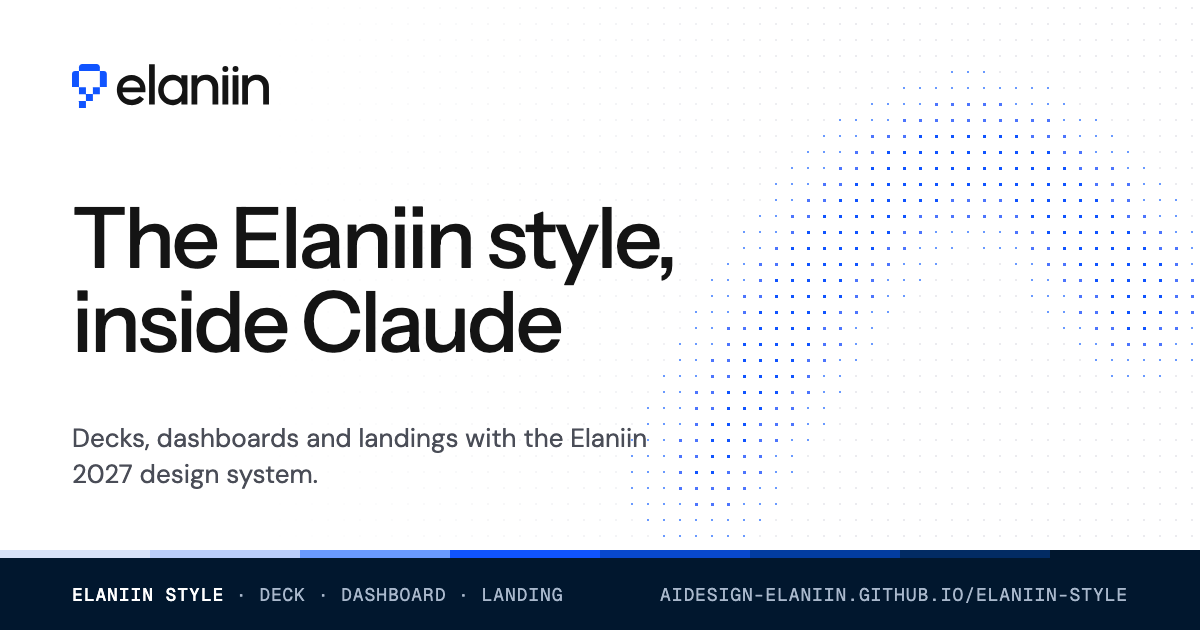
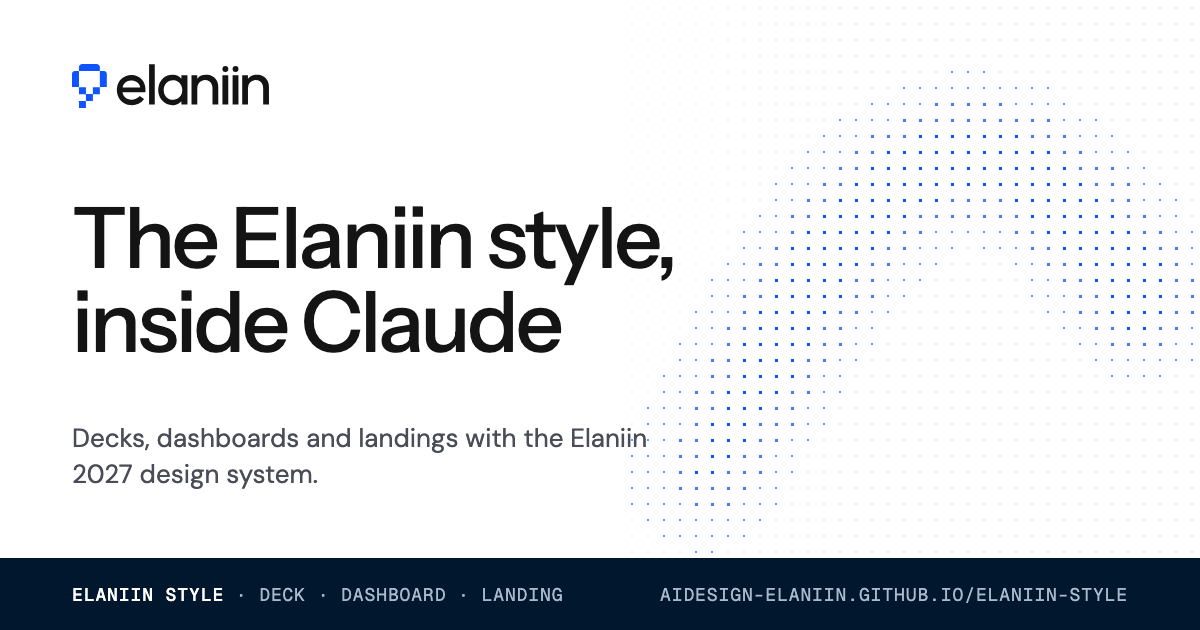
chore: elimina la barra escalonada de azul (--blue-steps) de todo el design system: tokens, deck, imagen OG y referencias; regla de no gradientes ni barras de color

Changed region(s): [[0.0, 0.8746, 1.0, 0.9048]]

diff --git a/docs/templates/deck.html b/docs/templates/deck.html
@@ -243,8 +243,6 @@
   --reveal-distance: 16px;
   --reveal-stagger: 60ms;
 
-  /* the only gradient: stepped blue motif */
-  --blue-steps: linear-gradient(90deg, #d7e2f8 0 12.5%, #b9cefb 12.5% 25%, #6a9aff 25% 37.5%, #1054ff 37.5% 50%, #0848cc 50% 62.5%, #023ca0 62.5% 75%, #022b63 75% 87.5%, #01172e 87.5% 100%);
 }
 
 @media (max-width: 1023px) {
@@ -859,7 +857,6 @@
           <h1 class="rise max-w-[15ch] break-words font-display font-medium text-display-xl" style="--i:0">Acme: the operating system for modern logistics</h1>
           <p class="rise mt-6 max-w-[56ch] text-lead text-text-secondary" style="--i:1">Investor presentation · Confidential</p>
         </div>
-        <div class="rise h-3 w-64" style="--i:2; background: var(--blue-steps)"></div>
       </div>
     </section>
 

diff --git a/skills/elaniin-style/templates/deck.html b/skills/elaniin-style/templates/deck.html
@@ -243,8 +243,6 @@
   --reveal-distance: 16px;
   --reveal-stagger: 60ms;
 
-  /* the only gradient: stepped blue motif */
-  --blue-steps: linear-gradient(90deg, #d7e2f8 0 12.5%, #b9cefb 12.5% 25%, #6a9aff 25% 37.5%, #1054ff 37.5% 50%, #0848cc 50% 62.5%, #023ca0 62.5% 75%, #022b63 75% 87.5%, #01172e 87.5% 100%);
 }
 
 @media (max-width: 1023px) {
@@ -859,7 +857,6 @@
           <h1 class="rise max-w-[15ch] break-words font-display font-medium text-display-xl" style="--i:0">Acme: the operating system for modern logistics</h1>
           <p class="rise mt-6 max-w-[56ch] text-lead text-text-secondary" style="--i:1">Investor presentation · Confidential</p>
         </div>
-        <div class="rise h-3 w-64" style="--i:2; background: var(--blue-steps)"></div>
       </div>
     </section>
 

diff --git a/docs/index.html b/docs/index.html
@@ -260,8 +260,6 @@
   --reveal-distance: 16px;
   --reveal-stagger: 60ms;
 
-  /* the only gradient: stepped blue motif */
-  --blue-steps: linear-gradient(90deg, #d7e2f8 0 12.5%, #b9cefb 12.5% 25%, #6a9aff 25% 37.5%, #1054ff 37.5% 50%, #0848cc 50% 62.5%, #023ca0 62.5% 75%, #022b63 75% 87.5%, #01172e 87.5% 100%);
 }
 
 @media (max-width: 1023px) {

diff --git a/docs/templates/dashboard.html b/docs/templates/dashboard.html
@@ -244,8 +244,6 @@
   --reveal-distance: 16px;
   --reveal-stagger: 60ms;
 
-  /* the only gradient: stepped blue motif */
-  --blue-steps: linear-gradient(90deg, #d7e2f8 0 12.5%, #b9cefb 12.5% 25%, #6a9aff 25% 37.5%, #1054ff 37.5% 50%, #0848cc 50% 62.5%, #023ca0 62.5% 75%, #022b63 75% 87.5%, #01172e 87.5% 100%);
 }
 
 @media (max-width: 1023px) {

diff --git a/docs/templates/landing.html b/docs/templates/landing.html
@@ -244,8 +244,6 @@
   --reveal-distance: 16px;
   --reveal-stagger: 60ms;
 
-  /* the only gradient: stepped blue motif */
-  --blue-steps: linear-gradient(90deg, #d7e2f8 0 12.5%, #b9cefb 12.5% 25%, #6a9aff 25% 37.5%, #1054ff 37.5% 50%, #0848cc 50% 62.5%, #023ca0 62.5% 75%, #022b63 75% 87.5%, #01172e 87.5% 100%);
 }
 
 @media (max-width: 1023px) {

diff --git a/skills/elaniin-style/templates/dashboard.html b/skills/elaniin-style/templates/dashboard.html
@@ -244,8 +244,6 @@
   --reveal-distance: 16px;
   --reveal-stagger: 60ms;
 
-  /* the only gradient: stepped blue motif */
-  --blue-steps: linear-gradient(90deg, #d7e2f8 0 12.5%, #b9cefb 12.5% 25%, #6a9aff 25% 37.5%, #1054ff 37.5% 50%, #0848cc 50% 62.5%, #023ca0 62.5% 75%, #022b63 75% 87.5%, #01172e 87.5% 100%);
 }
 
 @media (max-width: 1023px) {

diff --git a/skills/elaniin-style/templates/landing.html b/skills/elaniin-style/templates/landing.html
@@ -244,8 +244,6 @@
   --reveal-distance: 16px;
   --reveal-stagger: 60ms;
 
-  /* the only gradient: stepped blue motif */
-  --blue-steps: linear-gradient(90deg, #d7e2f8 0 12.5%, #b9cefb 12.5% 25%, #6a9aff 25% 37.5%, #1054ff 37.5% 50%, #0848cc 50% 62.5%, #023ca0 62.5% 75%, #022b63 75% 87.5%, #01172e 87.5% 100%);
 }
 
 @media (max-width: 1023px) {

diff --git a/skills/elaniin-style/templates/tokens.css b/skills/elaniin-style/templates/tokens.css
@@ -231,8 +231,6 @@
   --reveal-distance: 16px;
   --reveal-stagger: 60ms;
 
-  /* the only gradient: stepped blue motif */
-  --blue-steps: linear-gradient(90deg, #d7e2f8 0 12.5%, #b9cefb 12.5% 25%, #6a9aff 25% 37.5%, #1054ff 37.5% 50%, #0848cc 50% 62.5%, #023ca0 62.5% 75%, #022b63 75% 87.5%, #01172e 87.5% 100%);
 }
 
 @media (max-width: 1023px) {

diff --git a/scripts/make-og.py b/scripts/make-og.py
@@ -55,7 +55,6 @@ body{{width:{W}px;height:{H}px;background:#fff;position:relative;overflow:hidden
 h1{{position:absolute;left:72px;top:196px;width:700px;font-family:"Instrument Sans",sans-serif;font-weight:500;font-size:84px;line-height:1;letter-spacing:-.035em}}
 p.lead{{position:absolute;left:72px;top:420px;width:640px;font-size:26px;line-height:1.4;color:#4a4d57}}
 .band{{position:absolute;left:0;right:0;bottom:0;height:72px;background:#01172e;display:flex;align-items:center;justify-content:space-between;padding:0 72px}}
-.steps{{position:absolute;left:0;right:0;bottom:72px;height:8px;background:linear-gradient(90deg,#d7e2f8 0 12.5%,#b9cefb 12.5% 25%,#6a9aff 25% 37.5%,#1054ff 37.5% 50%,#0848cc 50% 62.5%,#023ca0 62.5% 75%,#022b63 75% 87.5%,#01172e 87.5% 100%)}}
 .band span{{white-space:nowrap;font-family:"Geist Mono",monospace;font-size:18px;letter-spacing:.05em;text-transform:uppercase;color:#a9b8cc}}
 .band b{{font-weight:500;color:#fff}}
 </style></head><body>
@@ -64,7 +63,6 @@ p.lead{{position:absolute;left:72px;top:420px;width:640px;font-size:26px;line-he
 <img class="logo" src="{logo}" alt="">
 <h1>The Elaniin style, inside Claude</h1>
 <p class="lead">Decks, dashboards and landings with the Elaniin 2027 design system.</p>
-<div class="steps"></div>
 <div class="band"><span><b>Elaniin Style</b> · Deck · Dashboard · Landing</span><span>aidesign-elaniin.github.io/elaniin-style</span></div>
 </body></html>'''
 (OUT / "og.html").write_text(html)

diff --git a/skills/elaniin-style/SKILL.md b/skills/elaniin-style/SKILL.md
@@ -168,6 +168,10 @@ Non-negotiables (full detail in `references/ux-a11y.md`):
    settings that persist), Export is real and disabled where there is no data, and there is
    no SaaS user block: the sidebar footer is legal (Privacy · Terms · ©). A dashboard is not a
    SaaS. Details and minimum views: `references/dashboards.md`.
+16. **No decorative gradients or color bars (non-negotiable).** No stepped/segmented blue
+   bars, ramp strips, gradient backgrounds, blobs or glass. Structure comes from hairlines,
+   flat surfaces and the `module-field` texture. The only soft glows allowed are the pointer
+   `spotlight` and `card-glow`. The blue ramp tokens exist for states, never as a decorative strip.
 
 ---
 
@@ -240,6 +244,7 @@ Before delivering, verify:
 - [ ] **No raw CSS:** all styling via `@theme`/`@utility` tokens — check against
       `references/tailwind-api.md` (no stray arbitrary values that exist as tokens).
 - [ ] **Every `lift` / `card-glow` element has `pad-card` (or p-6/p-8), radius and border** — text never touches the hover edge; no negative margins.
+- [ ] **No gradients or color bars:** no stepped blue strip, gradient backgrounds, blobs or glass.
 - [ ] **Dashboards:** every nav item opens a real view; controls, Export and New report work; no user block, legal footer; no `href="#"`.
 - [ ] **No eyebrows:** no small mono/uppercase label above any heading.
 - [ ] **Anchors:** every `href="#id"` points at a `<section id>`; it lands with the section top under the sticky nav (`scroll-margin-top` via `[id]` base rule).

diff --git a/skills/elaniin-style/references/decks.md b/skills/elaniin-style/references/decks.md
@@ -35,7 +35,7 @@ Un slide que recorta contenido es un slide roto. Reglas duras:
 
 | # | Slide | Layout |
 |---|---|---|
-| 1 | **Cover** | Blanco. Logo mono, display-xl (empresa + tagline), fecha caption. Opcional: stepped blue motif en esquina. |
+| 1 | **Cover** | Blanco. Logo mono, display-xl (empresa + tagline), fecha caption. Sin decoración de color: la textura `module-field` o nada. |
 | 2 | **Problem** | Grey. H2 + 2–3 bullets con iconos lineales. O full-bleed tipográfico. |
 | 3 | **Solution** | Blanco. H2 + product shot (`shadow-product`) + 3 value props en hairline grid. |
 | 4 | **How it works** | 3 pasos hairline con número en el título, conectores hairline. |
@@ -46,7 +46,7 @@ Un slide que recorta contenido es un slide roto. Reglas duras:
 | 9 | **Competition** | Matriz hairline (✓ / — / ✕ con iconos, no solo color). |
 | 10 | **Team** | Blanco. B/W portraits en grid hairline, nombre h4, rol caption. |
 | 11 | **The ask** | Navy. Número display blanco (monto / ronda), uso de fondos en 3 bullets, contacto. |
-| 12 | **Closing** | Blanco. Logo + tagline + contacto. stepped blue motif. |
+| 12 | **Closing** | Blanco. Logo + tagline + contacto. |
 
 Para **reportes internos**: cover → executive summary (navy) → secciones de datos →
 hallazgos → recomendaciones → next steps. Mismos tokens.

diff --git a/skills/elaniin-style/references/tailwind-api.md b/skills/elaniin-style/references/tailwind-api.md
@@ -80,7 +80,6 @@ Classes: `bg-elevate-blue`, `text-text-muted`, `border-border-default`,
 | `--section-y` / `-statement` / `-compact` | 96/128/64 · 72/96/48 · 56/72/40 | `section-y`, `section-y-statement`, `section-y-compact` |
 | `--card-padding` | 32 · — · 24 | `pad-card` |
 | `--nav-height` | 64 | — |
-| `--blue-steps` | gradiente escalonado azul | `var(--blue-steps)` |
 
 ### Radios · Sombras
 | Token | Valor | Utility |
@@ -225,4 +224,3 @@ anillo global · reduce → scroll auto. (Dashboard añade `body { background: s
 | `bg-[#f0f0f3] / #d7e2f8 / #e7eeff` | `bg-surface-subtle / bg-blue-100 / bg-blue-tint-50` |
 | status `text/bg/border-[#…]` | `text-success-text`, `bg-success-bg`, `border-success-border` (igual warning/error/info) |
 | `tabular` | `tabular-nums` (core) |
-| gradiente `blue-steps` inline | `background: var(--blue-steps)` |
